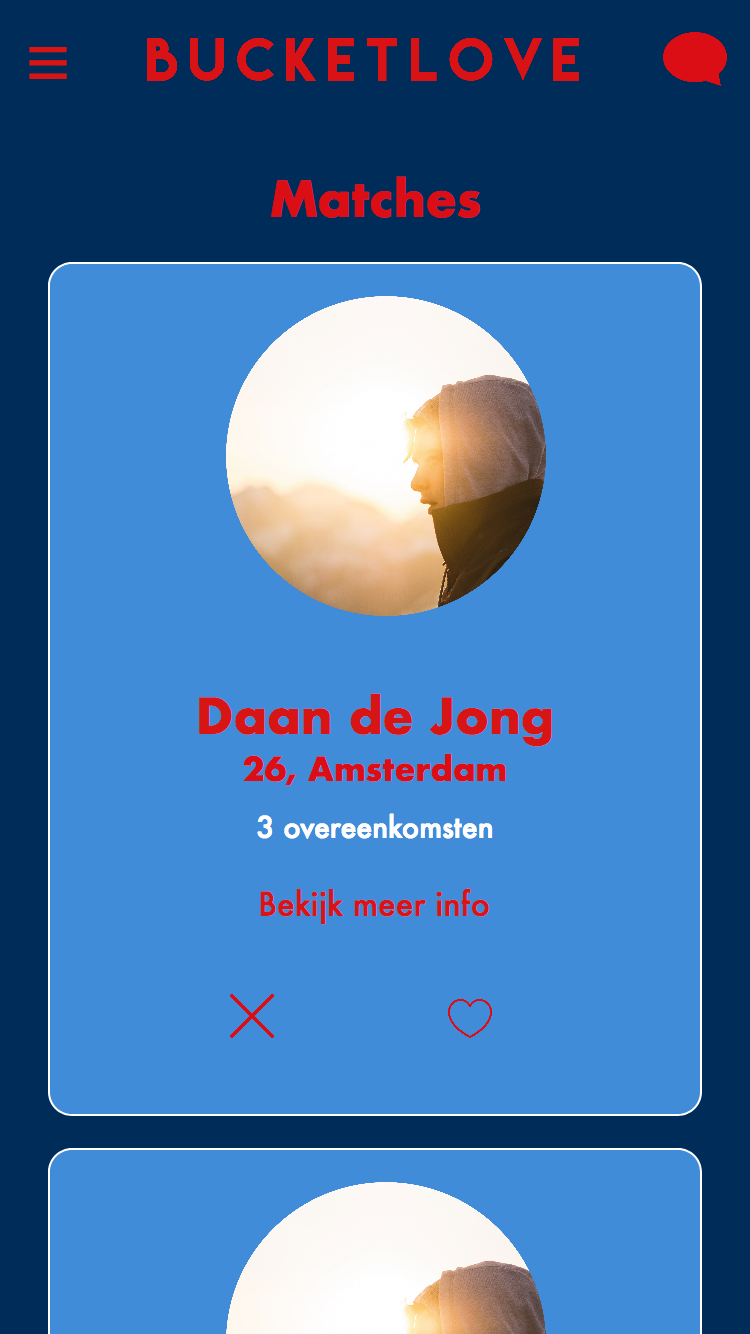
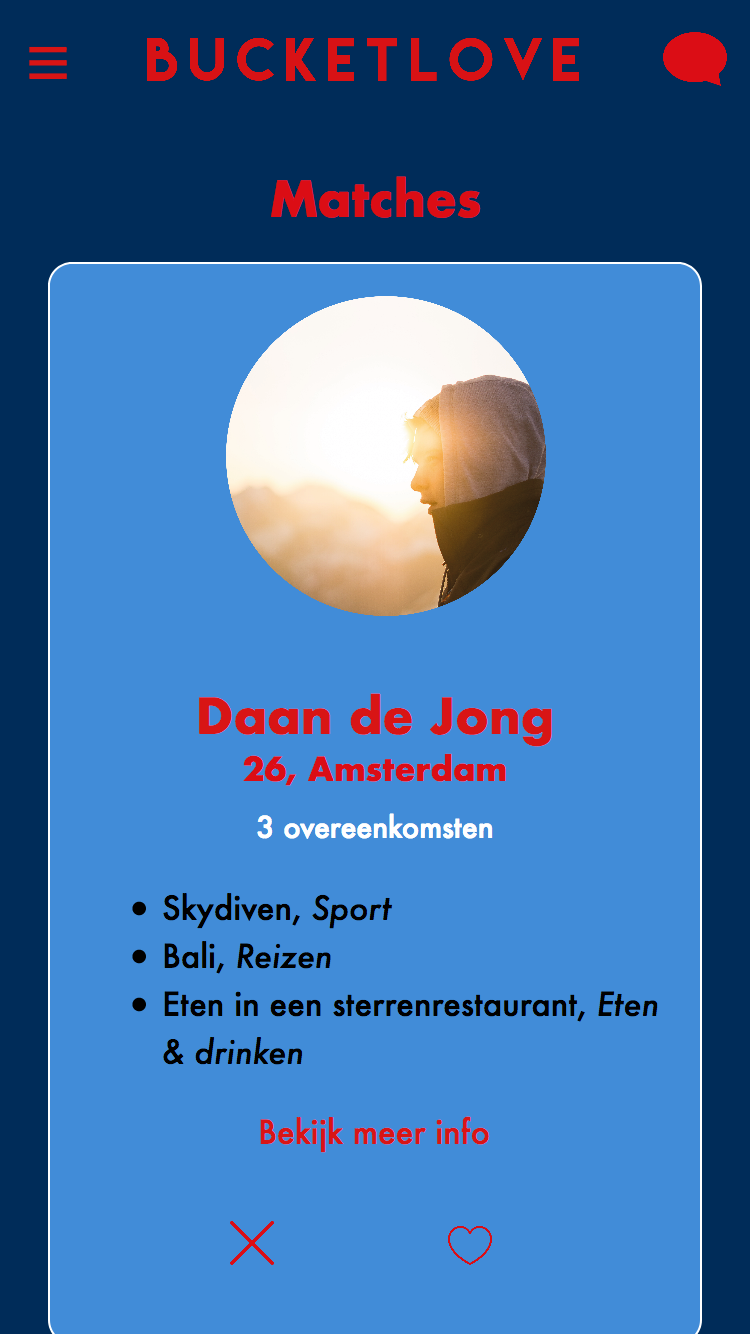
update read.me

diff --git a/README.md b/README.md
@@ -17,7 +17,7 @@ User can sign up by filling out a form, which contains questions about themselve
 
 #### Matches
 ![image](/pictures/Matches.png)
-
+![image](/pictures/Match.png)
 Show all the other users who can be a potential match for the user. Find out what other items they have on their bucket list and more information about them.
 
 When you both have a match go chat with each other!
